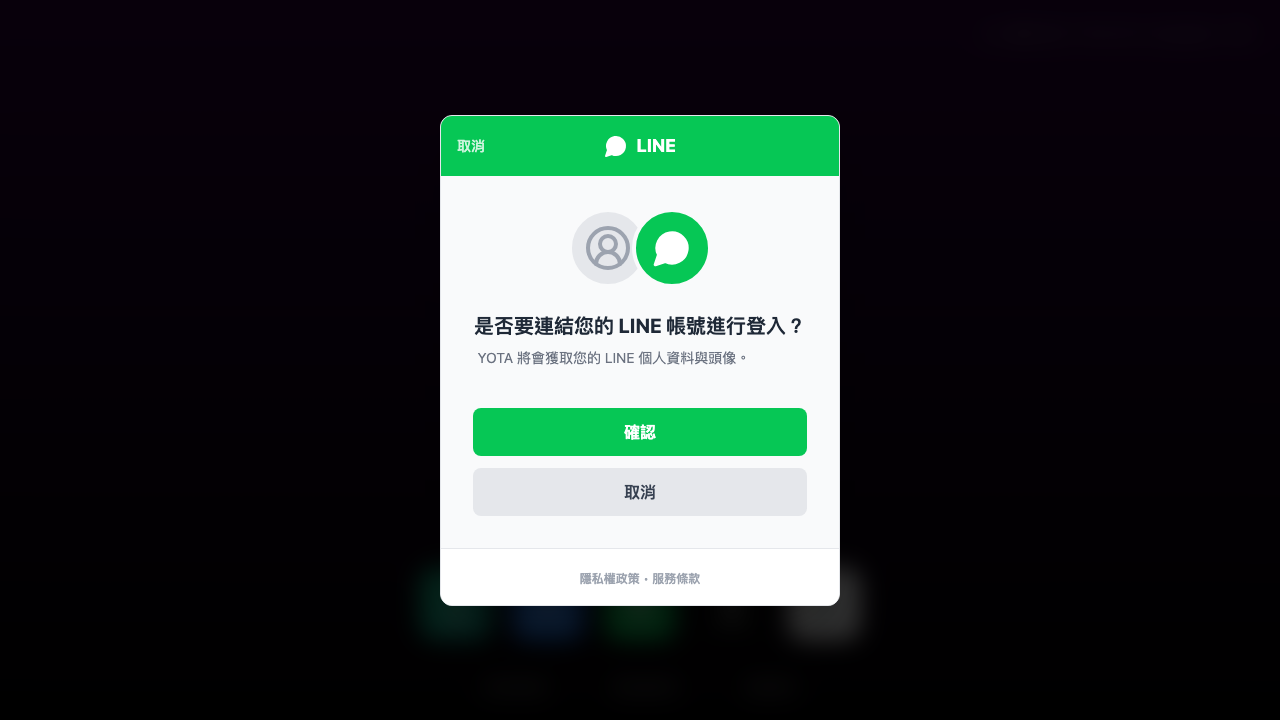
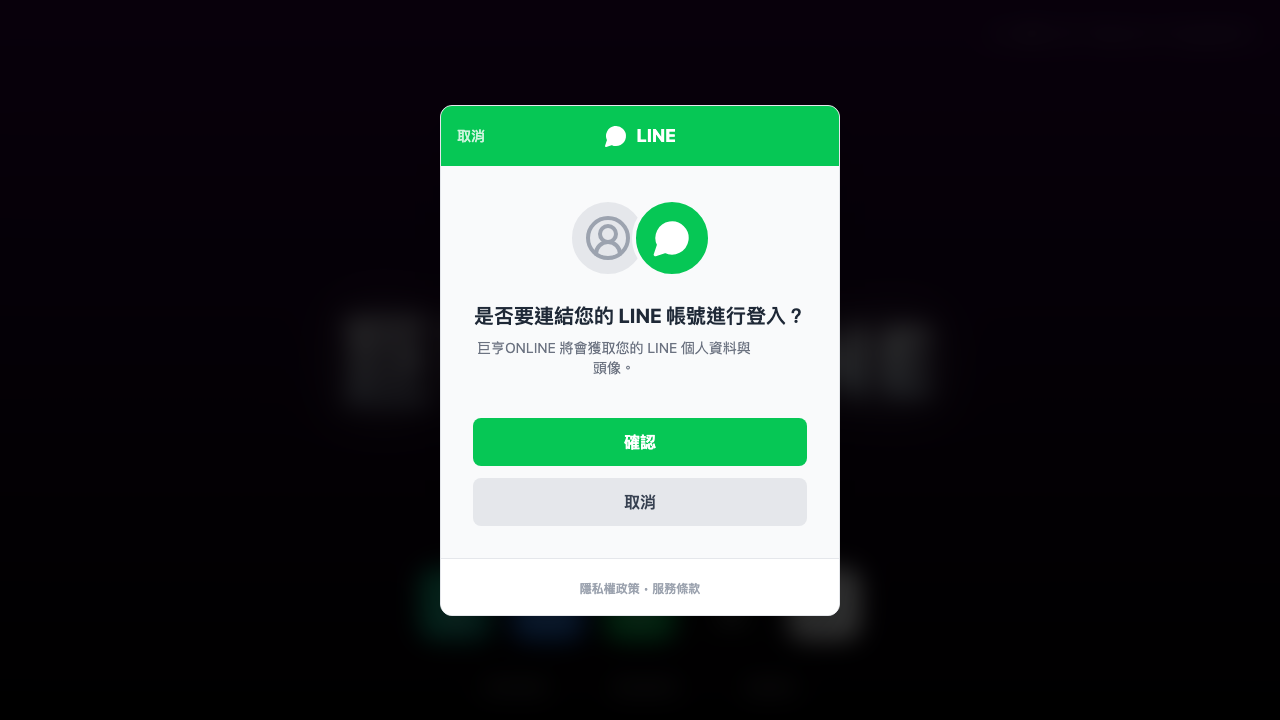
feat: align product branding with 巨亨ONLINE

diff --git a/src/components/modals/UserModal.tsx b/src/components/modals/UserModal.tsx
@@ -337,7 +337,7 @@ const UserModal = ({ onClose }: UserModalProps) => {
                                                 <label className="block text-slate-400 text-xs font-bold uppercase mb-2">帳號 (Account)</label>
                                                 <input
                                                     type="text"
-                                                    value="yota_player01"
+                                                    value="PlayerDemo01"
                                                     disabled
                                                     className="w-full bg-slate-800/50 border border-white/5 rounded-lg p-3 text-slate-400 cursor-not-allowed"
                                                 />
@@ -361,7 +361,7 @@ const UserModal = ({ onClose }: UserModalProps) => {
                                             </div>
                                             <div>
                                                 <div className="text-[#1877F2] font-bold text-sm">已連結 Facebook 帳號</div>
-                                                <div className="text-white font-bold text-lg">YotaTest999</div>
+                                                <div className="text-white font-bold text-lg">SocialDemo999</div>
                                             </div>
                                         </div>
                                     )}
@@ -373,7 +373,7 @@ const UserModal = ({ onClose }: UserModalProps) => {
                                             </div>
                                             <div>
                                                 <div className="text-[#06C755] font-bold text-sm">已連結 LINE 帳號</div>
-                                                <div className="text-white font-bold text-lg">YotaTest777</div>
+                                                <div className="text-white font-bold text-lg">SocialDemo777</div>
                                             </div>
                                         </div>
                                     )}
@@ -387,7 +387,7 @@ const UserModal = ({ onClose }: UserModalProps) => {
                                             </div>
                                             <div>
                                                 <div className="text-slate-300 font-bold text-sm">已連結 Apple ID</div>
-                                                <div className="text-white font-bold text-lg">YotaTest777</div>
+                                                <div className="text-white font-bold text-lg">SocialDemo777</div>
                                             </div>
                                         </div>
                                     )}

diff --git a/src/data/mockData.tsx b/src/data/mockData.tsx
@@ -9,6 +9,7 @@ import type { Package, SalePackage, Transaction, OfferPackage } from '../types/t
 import type { EventItem } from '../types/event';
 import type { InboxMessage } from '../types/inbox';
 import type { ClubRewardItem, UserClubStats, ClubEvent, EventTemplate } from '../types/club';
+import { PRODUCT_NAME } from '../config/brand';
 
 // Re-export types for backward compatibility
 export type { Game } from '../types/game';
@@ -228,7 +229,7 @@ export const EVENTS_LIST: EventItem[] = [
 ];
 
 export const INBOX_MESSAGES: InboxMessage[] = [
-    { id: 1, type: 'system', title: '【系統公告】伺服器維護通知', date: '2025-10-30', content: '親愛的玩家您好：\n\n為了提供更優質的遊戲體驗，我們將於 2025/11/01 03:00 (GMT+8) 進行例行性維護，預計維護時間為 2 小時。維護期間將無法登入遊戲，造成不便敬請見諒。\n\n維護補償將於開機後發送至您的信箱。\n\nGolden Bet 營運團隊 敬上', read: false, attachment: { type: 'coins', label: '維護補償', amount: '50,000 金幣' } },
+    { id: 1, type: 'system', title: '【系統公告】伺服器維護通知', date: '2025-10-30', content: `親愛的玩家您好：\n\n為了提供更優質的遊戲體驗，我們將於 2025/11/01 03:00 (GMT+8) 進行例行性維護，預計維護時間為 2 小時。維護期間將無法登入遊戲，造成不便敬請見諒。\n\n維護補償將於開機後發送至您的信箱。\n\n${PRODUCT_NAME} 營運團隊 敬上`, read: false, attachment: { type: 'coins', label: '維護補償', amount: '50,000 金幣' } },
     { id: 2, type: 'promo', title: '🔥 週末狂歡！儲值回饋 200%', date: '2025-10-29', content: '週末限定活動開跑！\n\n凡於本週六、日進行儲值，即可享有 200% 的金幣回饋！\n機會難得，錯過不再！快去商店查看詳情吧！', read: true },
     { id: 3, type: 'system', title: '恭喜晉升 VIP 7！', date: '2025-10-25', content: '恭喜您！\n\n您已成功晉升為 VIP 7 會員，現在可享有 1.4% 返水與 7% 手續費減免。\n\n保級只需達成每月有效投注或月儲值其中一項條件。', read: true },
     { id: 4, type: 'personal', title: '好友邀請通知', date: '2025-10-20', content: '玩家 Tom888 邀請您加入「贏家俱樂部」公會。', read: true },

diff --git a/src/components/features/LoginScreen.tsx b/src/components/features/LoginScreen.tsx
@@ -9,6 +9,7 @@ import LINELoginModal from '../modals/LINELoginModal';
 import AppleLoginModal from '../modals/AppleLoginModal';
 import GoogleLoginModal from '../modals/GoogleLoginModal';
 import PrototypeOverlay from '../common/PrototypeOverlay';
+import { PRODUCT_NAME } from '../../config/brand';
 
 // Apple Logo SVG（與 AppleLoginModal 一致）
 const AppleLogo = ({ className }: { className?: string }) => (
@@ -87,8 +88,11 @@ const LoginScreen = () => {
 
                 {/* Main Logo */}
                 <div className="absolute top-1/2 left-1/2 -translate-x-1/2 -translate-y-1/2 text-center animate-in fade-in zoom-in duration-1000">
-                    <h1 className="text-8xl font-black tracking-widest text-transparent bg-clip-text bg-gradient-to-b from-white to-slate-400 drop-shadow-[0_0_25px_rgba(255,255,255,0.5)]">
-                        YOTA
+                    <h1
+                        aria-label={PRODUCT_NAME}
+                        className="whitespace-nowrap bg-gradient-to-b from-white to-slate-400 bg-clip-text text-6xl font-black tracking-[0.08em] text-transparent drop-shadow-[0_0_25px_rgba(255,255,255,0.5)] sm:text-7xl lg:text-8xl"
+                    >
+                        {PRODUCT_NAME}
                     </h1>
                 </div>
 

diff --git a/src/components/layout/BrandLoading.tsx b/src/components/layout/BrandLoading.tsx
@@ -1,5 +1,6 @@
 import { useState, useEffect } from 'react';
 import { Sparkles, Wifi } from 'lucide-react';
+import { PRODUCT_NAME } from '../../config/brand';
 
 interface BrandLoadingProps {
     onFinished: () => void;
@@ -64,8 +65,11 @@ const BrandLoading = ({ onFinished }: BrandLoadingProps) => {
 
                 {/* Brand Name */}
                 <div className="mb-4 text-center animate-in fade-in zoom-in duration-1000">
-                    <h1 className="text-8xl font-black tracking-widest text-transparent bg-clip-text bg-gradient-to-b from-white to-slate-400 drop-shadow-[0_0_25px_rgba(255,255,255,0.5)]">
-                        YOTA
+                    <h1
+                        aria-label={PRODUCT_NAME}
+                        className="whitespace-nowrap bg-gradient-to-b from-white to-slate-400 bg-clip-text text-6xl font-black tracking-[0.08em] text-transparent drop-shadow-[0_0_25px_rgba(255,255,255,0.5)] sm:text-7xl lg:text-8xl"
+                    >
+                        {PRODUCT_NAME}
                     </h1>
                 </div>
 

diff --git a/src/components/features/ChatInterface.tsx b/src/components/features/ChatInterface.tsx
@@ -12,6 +12,7 @@ import type { ChatTargetPlayer, SupportDraft } from '../../context/NavigationCon
 import type { Friend, OnlinePlayer } from '../../types/user';
 import AutoSendSettingsModal, { AutoSendSettings } from '../modals/AutoSendSettingsModal';
 import { useNavigation } from '../../hooks/useNavigation';
+import { PRODUCT_NAME } from '../../config/brand';
 
 const MOCK_SPECIFIC_CHATS: Record<number, ChatMessage[]> = {
     1: [
@@ -35,7 +36,7 @@ const MOCK_SPECIFIC_CHATS: Record<number, ChatMessage[]> = {
 };
 
 const SUPPORT_CHAT_HISTORY: ChatMessage[] = [
-    { id: 1, sender: '客服小幫手', text: '您好！我是 Golden Bet 客服，請問有什麼可以協助您的？', isMe: false, time: '14:00' },
+    { id: 1, sender: '客服小幫手', text: `您好！我是 ${PRODUCT_NAME} 客服，請問有什麼可以協助您的？`, isMe: false, time: '14:00' },
 ];
 
 const getCurrentTime = () => new Date().toLocaleTimeString('zh-TW', {

diff --git a/src/components/modals/LINELoginModal.tsx b/src/components/modals/LINELoginModal.tsx
@@ -1,6 +1,7 @@
 import React, { useState, useEffect } from 'react';
 import { MessageCircle, UserCircle2 } from 'lucide-react';
 import PrototypeOverlay from '../common/PrototypeOverlay';
+import { PRODUCT_NAME } from '../../config/brand';
 
 interface LINELoginModalProps {
     onClose: () => void;
@@ -80,7 +81,7 @@ const LINELoginModal: React.FC<LINELoginModalProps> = ({ onClose, onLogin }) => 
                             <div className="text-center space-y-2">
                                 <h3 className="text-xl font-bold text-gray-800">是否要連結您的 LINE 帳號進行登入？</h3>
                                 <p className="text-sm text-gray-500 max-w-[280px]">
-                                    YOTA 將會獲取您的 LINE 個人資料與頭像。
+                                    {PRODUCT_NAME} 將會獲取您的 LINE 個人資料與頭像。
                                 </p>
                             </div>
 

diff --git a/src/components/modals/GoogleLoginModal.tsx b/src/components/modals/GoogleLoginModal.tsx
@@ -1,6 +1,7 @@
 import React, { useState, useEffect } from 'react';
 import { UserCircle2 } from 'lucide-react';
 import PrototypeOverlay from '../common/PrototypeOverlay';
+import { PRODUCT_NAME } from '../../config/brand';
 
 interface GoogleLoginModalProps {
     onClose: () => void;
@@ -86,7 +87,7 @@ const GoogleLoginModal: React.FC<GoogleLoginModalProps> = ({ onClose, onLogin })
                             <div className="text-center space-y-2">
                                 <h3 className="text-xl font-bold text-gray-900">是否要使用 Google 帳號登入？</h3>
                                 <p className="text-sm text-gray-500 max-w-[280px]">
-                                    YOTA 將會獲取您的 Google 個人資料與頭像。
+                                    {PRODUCT_NAME} 將會獲取您的 Google 個人資料與頭像。
                                 </p>
                             </div>
 

diff --git a/src/components/modals/AppleLoginModal.tsx b/src/components/modals/AppleLoginModal.tsx
@@ -1,6 +1,7 @@
 import React, { useState, useEffect } from 'react';
 import { UserCircle2 } from 'lucide-react';
 import PrototypeOverlay from '../common/PrototypeOverlay';
+import { PRODUCT_NAME } from '../../config/brand';
 
 interface AppleLoginModalProps {
     onClose: () => void;
@@ -87,7 +88,7 @@ const AppleLoginModal: React.FC<AppleLoginModalProps> = ({ onClose, onLogin }) =
                             <div className="text-center space-y-2">
                                 <h3 className="text-xl font-bold text-gray-900">是否要連結您的 Apple 帳號進行登入？</h3>
                                 <p className="text-sm text-gray-500 max-w-[280px]">
-                                    YOTA 將會獲取您的 Apple ID 個人資料。
+                                    {PRODUCT_NAME} 將會獲取您的 Apple ID 個人資料。
                                 </p>
                             </div>
 

diff --git a/src/components/modals/FacebookLoginModal.tsx b/src/components/modals/FacebookLoginModal.tsx
@@ -1,6 +1,7 @@
 import React, { useState, useEffect } from 'react';
 import { Facebook, UserCircle2 } from 'lucide-react';
 import PrototypeOverlay from '../common/PrototypeOverlay';
+import { PRODUCT_NAME } from '../../config/brand';
 
 interface FacebookLoginModalProps {
     onClose: () => void;
@@ -82,7 +83,7 @@ const FacebookLoginModal: React.FC<FacebookLoginModalProps> = ({ onClose, onLogi
                             <div className="text-center space-y-2">
                                 <h3 className="text-xl font-bold">Continue as Player?</h3>
                                 <p className="text-sm text-[#B0B3B8] max-w-[240px]">
-                                    YOTA will receive access to your name and profile picture.
+                                    {PRODUCT_NAME} will receive access to your name and profile picture.
                                 </p>
                             </div>
 

diff --git a/src/components/profile/GameRecordsPanel.tsx b/src/components/profile/GameRecordsPanel.tsx
@@ -40,7 +40,7 @@ const createMockRecords = (today: Date): GameRecord[] => {
         return {
             id: index + 1,
             time: today.getTime() - dayOffset * DAY_IN_MS - minuteOffset * 60_000,
-            game: GAMES[seed % GAMES.length]?.title ?? 'Golden Bet',
+            game: GAMES[seed % GAMES.length]?.title ?? '未命名遊戲',
             bet,
             win,
             balance,

diff --git a/index.html b/index.html
@@ -3,7 +3,7 @@
   <head>
     <meta charset="UTF-8" />
     <meta name="viewport" content="width=device-width, initial-scale=1.0" />
-    <title>Casino Lobby</title>
+    <title>巨亨ONLINE</title>
   </head>
   <body>
     <div id="root"></div>

diff --git a/src/config/brand.ts b/src/config/brand.ts
@@ -1,0 +1,1 @@
+export const PRODUCT_NAME = '巨亨ONLINE';
